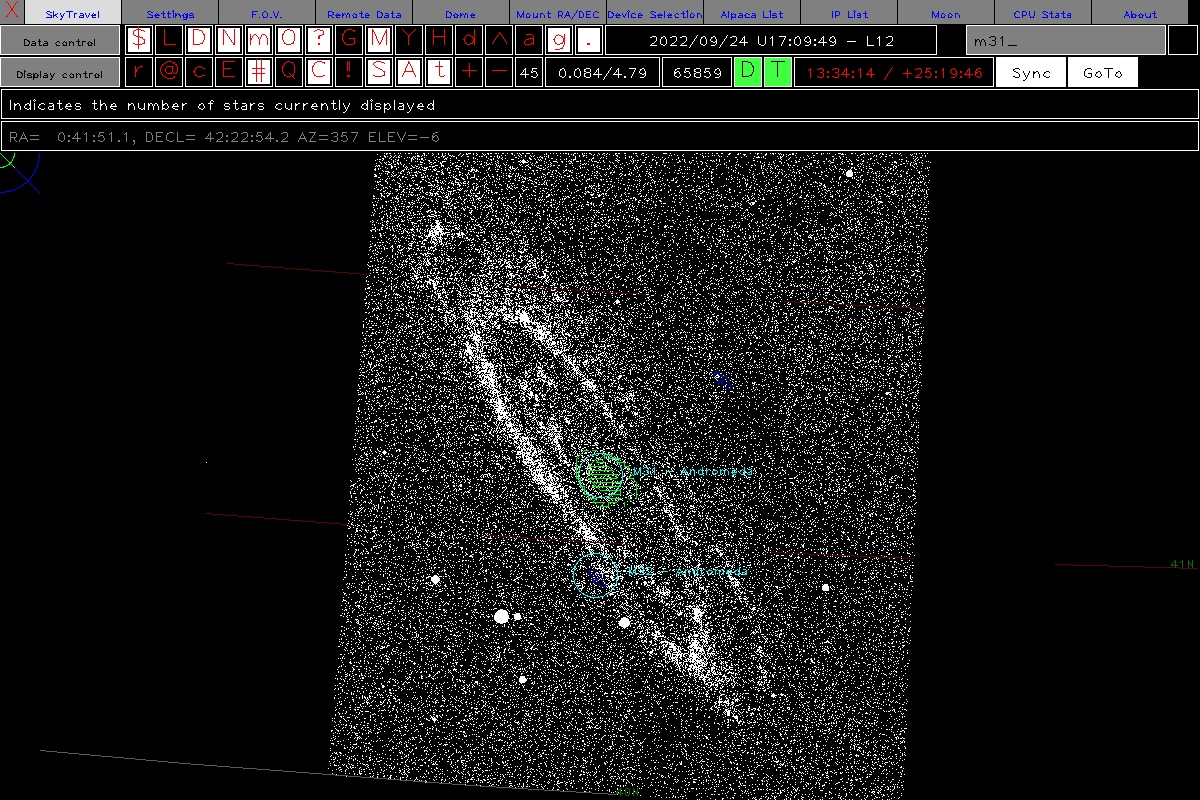
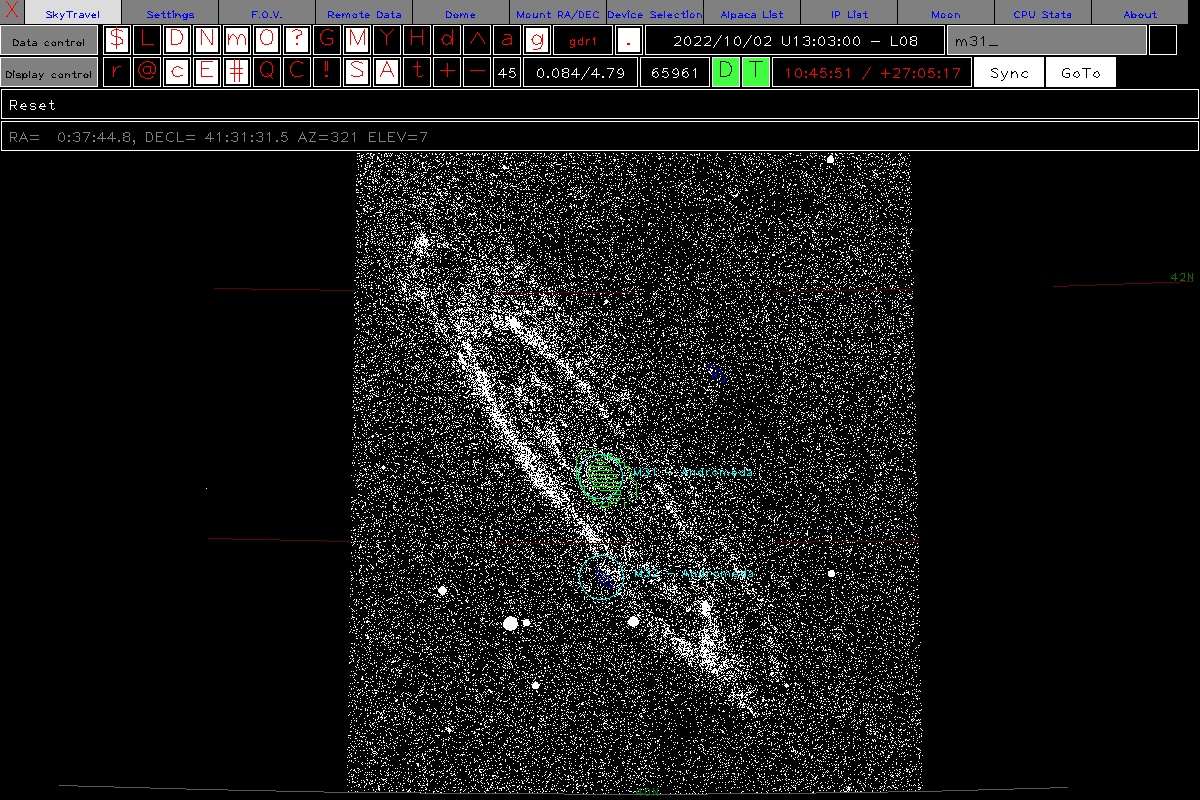
Added GDR1 and GDR2 info and images

diff --git a/docs/index.html b/docs/index.html
@@ -86,9 +86,10 @@ Gaia has announced DR4 and DR5. We will implment them when they are released.
  <tr><td><a href="#Appendix3">Appendix 3</a></td>  <td>SQL Helper Programs</td>       <td colspan=2></td></tr>
  <tr><td><a href="#Appendix4">Appendix 4</a></td>  <td>Alpaca &amp; SkyTravel Planetarium</td>    <td colspan=2></td></tr>
  <tr><td><a href="#Appendix5">Appendix 5</a></td>  <td>File Sizes &amp; Process Times</td>     <td colspan=2>Just FYI</td></tr>
- <tr><td><a href="#Appendix6">Appendix 6</a></td>  <td>Our Current Implentation</td>      <td colspan=2></td></tr>
+ <tr><td><a href="#Appendix6">Appendix 6</a></td>  <td>Our Current Databases</td>      <td colspan=2></td></tr>
  <tr><td><a href="#Appendix7">Appendix 7</a></td>  <td>Web Links of Interest</td>       <td colspan=2></td></tr>
- <tr><td><a href="#Appendix8">Appendix 8&nbsp;</a></td> <td>Appendix 7: Pictures of interest</td>    <td colspan=2></td></tr>
+ <tr><td><a href="#Appendix8">Appendix 8&nbsp;</a></td> <td>Pictures of interest</td>       <td colspan=2></td></tr>
+ <tr><td><a href="#Credits">Credits&nbsp;</a></td> <td>GAIA Crdits</td>       <td colspan=2></td></tr>
  <tr bgcolor="Yellow"> <th colspan=4>Text in Yellow are commands you type.</th></tr>
  <tr bgcolor="Cyan">  <th colspan=4>Text in Cyan is contents of files or file names.</th></tr>
 </table>
@@ -418,6 +419,7 @@ There are a few SQL scripts needed. Thew were creatred in the above step so they
 <tr><td>GetStarFromID</td>  <td>source_id</td>   <td>One Star</td>    <td>designation,ra,decl,phot_g_mean_mag,bp_rp</td></tr>
 <tr><td>SetLogComment</td>  <td>Coment</td>    <td>nothing</td>    <td>Inserts comment into event log</td></tr>
 <tr><td>GetVersion</td>   <td>nothing</td>   <td>Gaia Version</td>   <td>Currently "Gaia DR3"</td></tr>
+<tr><td>GetMilliSeconds</td> <td>nothing</td>   <td>Time in milliseconds</td> <td>Called from GetRaDec, GetDeclination, GetStarFromID</td></tr>
 <tr><th colspan=4><h2>Optional SQL Scripts</h2></th></tr>
 <tr><th>Function Name</th>  <th>Arguments passed</th> <th>Returns</th>    <th>Comments</th></tr>
 <tr><td>showfunctions</td>  <td>nothing</td>   <td>List of functions</td>  <td>Shows the functions in this database</td></tr>
@@ -430,7 +432,6 @@ There are a few SQL scripts needed. Thew were creatred in the above step so they
 <tr><td colspan=4></td></tr>
 <tr><td>GetFirstDate</td>  <td>Username</td>   <td>First Date</td>    <td>Called from showUsers</td></tr>
 <tr><td>GetLastDate</td>  <td>Username</td>   <td>Last Date</td>    <td>Called from showUsers</td></tr>
-<tr><td>GetMilliSeconds</td> <td>nothing</td>   <td>Time in milliseconds</td> <td>Called from GetRaDec, GetDeclination, GetStarFromID</td></tr>
 </table>
 <br/>
 <br/>
@@ -734,8 +735,8 @@ These are the times it took me to download, decompress, process and then upload 
 <br/>
 <a href="#Index">Jump to Index</a>
 <! ========================================================================================================= >
-<hr><a name="Appendix6"></a><h1>Our Current Implentation</h1>
-We currently have the following databases on our SQL server:
+<hr><a name="Appendix6"></a><h1>Appendix 6: Our Current Databases</h1>
+We currently have the following databases online on our MariaDB SQL server:
 <table border=6>
  <tr><td>GDR1</td> <td>Gaia Data Release 1</td>  <td>1.1 Billion Stars</td></tr>
  <tr><td>GDR2</td> <td>Gaia Data Release 2</td>  <td>1.6 Billion Stars</td></tr>
@@ -758,7 +759,7 @@ You can access all of these with just one account.
 <br/>
 <a href="#Index">Jump to Index</a>
 <! ========================================================================================================= >
-<hr><a name="Appendix7"></a><h1>Appendix 6: Web Links of Interest</h1>
+<hr><a name="Appendix7"></a><h1>Appendix 7: Web Links of Interest</h1>
 
 <table border=3>
  <tr><th>Description</th>         <th>Web Link</th></tr>
@@ -776,21 +777,50 @@ You can access all of these with just one account.
 <a href="#Top">Jump to Top</a>
 <! ========================================================================================================= >
 
-<hr><a name="Appendix8"></a><h1>Appendix 7: Pictures of interest</h1>
+<hr><a name="Appendix8"></a><h1>Appendix 8: Pictures of interest</h1>
 <table border=6>
 <tr><td align=center><br><h2>The Milky Way</h2><br><img  width=1200 src="images/starmap_2020_4k_print.jpg"><br><A href="https://svs.gsfc.nasa.gov/4851">https://svs.gsfc.nasa.gov/4851</a><br><br></td></tr>
 <tr><td align=center><br><h2>Star Count</h2><br><img  width=1200 src="images/StarCount.jpg"><br>Number of Stars per by 1 deg x 1 deg<br/>Counted from GAIA data<br/>&copy; 2022 Keith Sproul<br><br></td></tr>
 <tr><td align=center><img  width=1200 src="images/StarCount2.jpg"><br>Number of Stars per by 1 deg x 1 deg<br/>Counted from GAIA data<br/>&copy; 2022 Keith Sproul<br><br></td></tr>
-<tr><td align=center><br><h2>Andromeda Gaia Data Relase 1</h2> <h3>SkyTravel Program showing M-31 Andromeda with all stars turned on<br/>Using the GAIA SQL Database 1<br/>75,215 Stars in 3 dex by 3 deg grid</h3><br><img  width=1200 src="images/Andromeda-GDR1.jpg"></td></tr>
-<tr><td align=center><br><h2>Andromeda Gaia Data Relase 2</h2> <h3>SkyTravel Program showing M-31 Andromeda with all stars turned on<br/>Using the GAIA SQL Database 2<br/> ? Stars in 3 dex by 3 deg grid</h3><br></td></tr>
-<tr><td align=center><br><h2>Andromeda Gaia Data Relase 3</h2> <h3>SkyTravel Program showing M-31 Andromeda with all stars turned on<br/>Using the GAIA SQL Database 3<br/> 132,092 Stars in 3 dex by 3 deg grid</h3><br><img  width=1200 src="images/Andromeda-GDR3.jpg"></td></tr>
+<tr><td align=center><br><h2>Andromeda Gaia Data Relase 1</h2> <h3>SkyTravel Program showing M-31 Andromeda with all stars turned on<br/>Using the GAIA Release 1 SQL Database Server<br/>75,215 Stars in 3 deg by 3 deg grid</h3><br><img  width=1200 src="images/Andromeda-GDR1.jpg"></td></tr>
+<tr><td align=center><br><h2>Andromeda Gaia Data Relase 2</h2> <h3>SkyTravel Program showing M-31 Andromeda with all stars turned on<br/>Using the GAIA Release 2 SQL Database  Server<br/> 116,938 Stars in 3 deg by 3 deg grid</h3><br><img  width=1200 src="images/Andromeda-GDR2.jpg"></td></tr>
+<tr><td align=center><br><h2>Andromeda Gaia Data Relase 3</h2> <h3>SkyTravel Program showing M-31 Andromeda with all stars turned on<br/>Using the GAIA Release 3 SQL Database Server<br/> 132,092 Stars in 3 deg by 3 deg grid</h3><br><img  width=1200 src="images/Andromeda-GDR3.jpg"></td></tr>
+<tr><td align=center><br><h2>Andromeda 2Mass</h2> <h3>SkyTravel Program showing M-31 Andromeda with all stars turned on<br/>Using the 2 Micron All Sky Survey SQL Server<br/>44,142 Stars in 3 deg by 3 deg grid</h3><br><img  width=1200 src="images/Andromeda-2mass.jpg"></td></tr>
 </table>
 <a href="#Top">Jump to Top</a>
+<hr>
+<a name='Credits'>
+<h1>Credits</h1>
+<h2>SkyTravel</h2>
+SkyTravel was written by Dr. Clif Ashcraft and Dr. Frank Covits in the 1980's<br/>
+It is now maintained by<br/>
+Mark Sproul <a href="mailto:msproul@skychariot.com">msproul@skychariot.com</a>
+<br/>
+<br/>
+<h2>Alpaca Pi</h2>
+The Alpaca Pi software and drivers where written by<br/>
+Mark Sproul <a href="mailto:msproul@skychariot.com">msproul@skychariot.com</a>
+<h2>SQL</h2>
+The SQL code in this project was written by<br/>
+Keith Sproul <a href="mailto:ksproul@skychariot.com">ksproul@skychariot.com</a>
+<br/>
+<br/>
+<h2>GAIA</h2>
+This work has made use of data from the European Space Agency (ESA) mission Gaia<br/>
+(<a href="https://www.cosmos.esa.int/gaia" target="_blank">https://www.cosmos.esa.int/gaia<a>),<br/>
+processed by the Gaia Data Processing and Analysis Consortium<br/>
+(DPAC, <a href="https://www.cosmos.esa.int/web/gaia/dpac/consortium" target="_blank">https://www.cosmos.esa.int/web/gaia/dpac/consortium<a>).<br/>
+Funding for the DPAC has been provided by national institutions,<br/>
+in particular the institutions participating in the Gaia Multilateral Agreement.<br/>
+<br/>
 
+<center>
+
+</center>
 <a name="Bottom">
 <br><hr></center>
 
 <hr>
 </body>
-<address> Created 1/7/2022<br>Modified 9/27/2022<br>&copy; Copyright Keith Sproul<br>EMail <a href="mailto:ksproul@skychariot.com">ksproul@skychariot.com</a></address>
+<address> Created 1/7/2022<br>Modified 10/2/2022<br>&copy; Copyright Keith Sproul<br>EMail <a href="mailto:ksproul@skychariot.com">ksproul@skychariot.com</a></address>
 </html>
